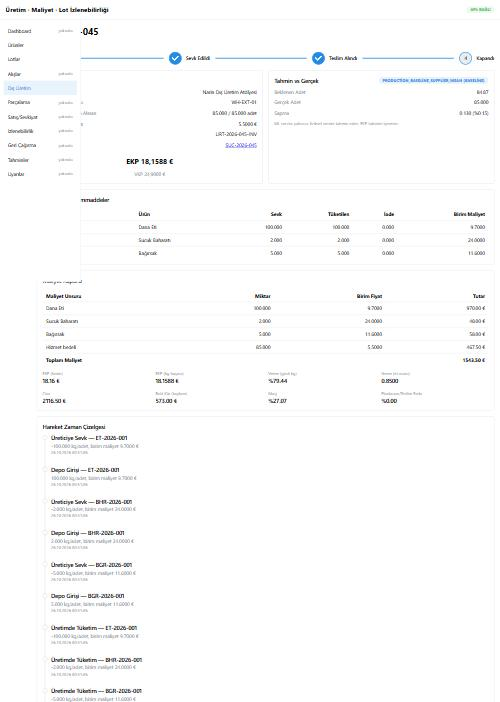
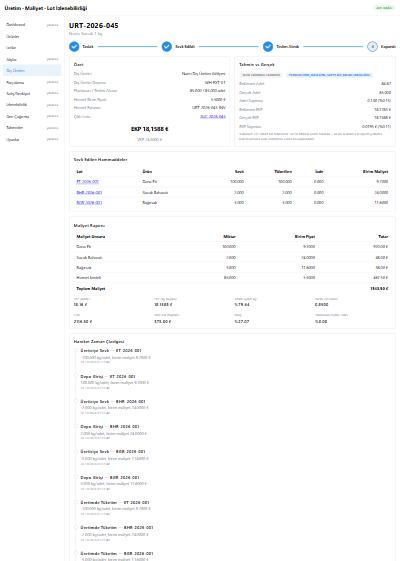
docs: hibrit EKP tahmini ve atomik numaralandirma (OpenAPI, varsayimlar, HANDOFF)

diff --git a/docs/HANDOFF.md b/docs/HANDOFF.md
@@ -14,11 +14,11 @@ Bu dosya, backend iskeletini devralan full-stack geliştirici içindir. Branch'l
 - **Repo (SQL)** — `backend/internal/repo`: items/suppliers/customers/warehouses CRUD, lots (liste/filtre/detay/bakiye), `CreatePurchaseLot` (tek transaction: belge + lot + belge satırı + `purchase_in` hareketi + change_log), stok hareketi listesi ve `ReverseMovement`, sync push/pull. item/customer/warehouse/lot'a yazan her fonksiyon `change_log` kaydını aynı transaction'da atar.
 - **HTTP** — `backend/internal/http`: chi router, JSON hata formatı, CORS, istek logu, panic kurtarma. Uç noktalar `docs/api-contract.md`'de; sözleşme `backend/api/openapi.yaml`.
 - **Seed** — `backend/cmd/seed` (idempotent): tedarikçiler, depolar, müşteriler, ürünler, alış belgeleri/lotları/`purchase_in` hareketleri (`KZ-2026-001` `has_mismatch=TRUE`), kuzu reçetesi `REC-KUZU-01` (oran ve fiyatlar `docs/golden/cutting_case.json`'dan okunur; dosya yoksa uyarıyla varsayılan değerler).
-- **Dış üretim (Görev 1)** — `backend/internal/repo/production.go`, durum/istek kuralları `backend/internal/domain/production.go`: `draft → materials_sent → received → closed`. `POST /production-orders` (+`URT-YYYY-NNN` otomatik numaralandırma), `send-materials` (kısmi/çok partili, bloke lot/yetersiz bakiye kontrolü), `receive` (iade desteği, `domain.CalculateProductionCost` ile EKP, çıktı lotu + `lot_link` + `production_in`, `INVOICED_QTY_MISMATCH`/`QTY_VARIANCE` uyarıları), `close` (fatura no zorunlu), `GET .../cost-report`, `GET .../movements`. `item.material_category` (migration `000002`) ve `production_input` lot-başına-tek-sevk kısıtı (migration `000003`) eklendi.
-- **ML entegrasyonu (en iyi gayret)** — `backend/internal/mlclient`: sipariş oluşturulunca `/predict/production` çağrılır (kaba `et_kg` tahminiyle, bkz. `docs/assumptions.md` madde 12), `receive`'de gerçekleşenle karşılaştırılıp `prediction` tablosu güncellenir. ML kapalıysa/zaman aşımına uğrarsa işlem bozulmaz, `prediction` boş kalır (`repo.Store.SetMLClient`, `ML_URL` env).
+- **Dış üretim (Görev 1)** — `backend/internal/repo/production.go`, durum/istek kuralları `backend/internal/domain/production.go`: `draft → materials_sent → received → closed`. `POST /production-orders` (+`URT-YYYY-NNN` **atomik** numaralandırma, migration `000005`), `send-materials` (kısmi/çok partili, bloke lot/yetersiz bakiye kontrolü), `receive` (iade desteği, `domain.CalculateProductionCost` ile EKP, çıktı lotu + `lot_link` + `production_in`, `INVOICED_QTY_MISMATCH`/`QTY_VARIANCE` uyarıları), `close` (fatura no zorunlu), `GET .../cost-report`, `GET .../movements`. `item.material_category` (migration `000002`) ve `production_input` lot-başına-tek-sevk kısıtı (migration `000003`) eklendi.
+- **Hibrit ML EKP tahmini (en iyi gayret)** — `backend/internal/mlclient` + `repo/production.go`: tahmin İKİ aşamada alınır, önceki satırın üzerine yazılmadan (`prediction.stage`, migration `000004`): `draft` (sipariş oluşunca, kaba `et_kg` tahminiyle, yalnız adet tahmini) ve `materials_sent` (hammadde sevki tamamlanınca, GERÇEK `et_kg` + KESİN `material_cost` ile `predicted_ekp_unit` hesaplanır — bkz. `docs/assumptions.md` madde 11–12). `receive`'de gerçekleşenle karşılaştırılıp aynı satıra yazılır (`actual_ekp_unit`, `ekp_error_abs/pct`). ML her iki aşamada da kapalıysa/zaman aşımına uğrarsa ilgili aşamanın tahmini atlanır, işlem bozulmaz (`repo.Store.SetMLClient`, `ML_URL` env).
 - **Web** — `web/`: Mantine sol menü iskeleti (11 sayfa), Ürünler/Lotlar/**Dış Üretim** canlı (Dış Üretim: liste + yeni sipariş formu + detay sayfası — durum adımları, sevk/kabul/kapatma formları, maliyet raporu kartı, tahmin-vs-gerçek kartı, hareket zaman çizelgesi, girdi lotları tablosu), diğerleri "yakında"; API durum rozeti. Ekran görüntüsü: [`docs/screenshots/urt-2026-045-cost-report.jpg`](screenshots/urt-2026-045-cost-report.jpg) (temiz `docker compose up --build` sonrası seed senaryosu).
 - **Altyapı**: `docker-compose.yml` (mysql→migrate→seed→api→web, ml; `api`/`seed` artık `ML_URL=http://ml:8000` ile), `Makefile`, `.env.example`, CI (`ml-test` ve `ml-docker-build` aynen duruyor; eklenenler: `backend-test`, `web-build`, `compose-smoke`).
-- **Testler** (`make test`): domain golden + dec/rounding birim testleri, 15+6 entegrasyon testi — önceki paket (migration up/down/up, trigger, decimal string round-trip, `POST /lots` atomikliği ve geri alma, `has_mismatch`, reverse kuralları, sync duplicate/pull/has_more/blocked, hata formatı, istemci UUIDv7) + yeni (`TestProductionGoldenScenarios`: golden `UR-001/002/003/006` gerçek HTTP uç noktalarıyla çalıştırılıp sonuç golden dosyasından okunarak karşılaştırılır; tam yaşam döngüsü + defter/`lot_link` doğrulaması; bloke lot/yetersiz bakiye/kısmi iade/ML kapalı senaryoları).
+- **Testler** (`make test`): domain golden + dec/rounding birim testleri, 15+11 entegrasyon testi — önceki paket (migration up/down/up, trigger, decimal string round-trip, `POST /lots` atomikliği ve geri alma, `has_mismatch`, reverse kuralları, sync duplicate/pull/has_more/blocked, hata formatı, istemci UUIDv7) + dış üretim paketi: `TestProductionGoldenScenarios` (golden `UR-001/002/003/006` gerçek HTTP uç noktalarıyla çalıştırılıp sonuç golden dosyasından okunarak karşılaştırılır), tam yaşam döngüsü + defter/`lot_link` doğrulaması, bloke lot/yetersiz bakiye/kısmi iade/ML kapalı senaryoları, `TestProductionHybridEkpPrediction` (mock ML sunucusu ile `predicted_ekp_unit` formülünü elle hesaplanan değerle birebir doğrular, sapma işaretini kontrol eder), `TestProductionOrderNumberingIsAtomicUnderConcurrency` (10 siparişi gerçekten aynı anda oluşturup hepsinin benzersiz numara aldığını doğrular).
 
 ## 2. Stub / TODO (bilerek yapılmadı)
 
@@ -27,10 +27,9 @@ Bu dosya, backend iskeletini devralan full-stack geliştirici içindir. Branch'l
 | `POST /sync/push` payload işleme | **Stub.** `op_id` kaydedilir, payload işlenmez; ilk gönderim `flagged` döner (uygulanmadı). `repo/sync.go` içindeki `TODO` yeri. Yazılınca stub kayıtlarını silin: `DELETE FROM processed_request WHERE JSON_EXTRACT(response_json,'$.stub') = TRUE;` |
 | Cihaz kaydı | `device` tablosu var, kayıt uç noktası yok. `pull`/`push` yalnızca kayıtlı cihazın `last_sync_at`'ini günceller. |
 | Parçalama, satış/sevkiyat/iade, izlenebilirlik, geri çağırma, uyarı | Tablolar var; **servis/uç nokta yok**. Hesap kuralları (`AllocateCutting`) hazır ve golden'la doğrulu, bağlanmayı bekliyor. |
-| ML entegrasyonu — yalnız dış üretim | `prediction` yalnızca `production` için yazılır (`anomaly_alert` hiç yazılmıyor; parçalama/satış ML'i de yok). ML yalnızca fiziksel verim tahmin eder, EKP tahmini **yoktur** (bkz. `docs/assumptions.md` madde 11). |
+| ML entegrasyonu — yalnız dış üretim | `prediction` yalnızca `production` için yazılır (`anomaly_alert` hiç yazılmıyor; parçalama/satış ML'i de yok). EKP tahmini = ML'in fiziksel verim tahmini + kesin malzeme maliyeti (**hibrit yaklaşım**, iki aşamalı: `draft` → `materials_sent`; bkz. `docs/assumptions.md` madde 11–12). |
 | Kimlik doğrulama / yetki | Yok. API açık, CORS `*`. |
 | Web | Ürünler/Lotlar salt okunur; Dış Üretim formlu ama diğer modüller yok. Web testi yok (yalnızca `tsc` + build). |
-| Sipariş/lot numarası üretimi atomik değil | `URT-YYYY-NNN`/`SUC-YYYY-NNN`: MAX+1, UNIQUE çakışmasında otomatik yeniden denemez (409). Demo/tek-yazarlı kullanım için yeterli (bkz. `docs/assumptions.md` madde 7). |
 | Çok depolu dış üretim desteklenmiyor | Bir siparişin tüm girdileri aynı depodan sevk edilmeli; çıktı da oraya girer (bkz. `docs/assumptions.md` madde 5). |
 | `suppliers` sync | Senkron akışına dahil değil (spec: item/customer/warehouse/lot). |
 | Android | `android/` boş (`.gitkeep` + README). |
@@ -54,6 +53,8 @@ Bu dosya, backend iskeletini devralan full-stack geliştirici içindir. Branch'l
 15. **Seed artık servisler üzerinden de yazıyor.** `cmd/seed/externalProduction`: `URT-2026-045` senaryosu `repo.Store`'un gerçek `CreateProductionOrder`/`SendMaterials`/`ReceiveProduction`/`CloseProductionOrder` fonksiyonlarıyla, ham SQL YAZMADAN oluşturulur (yalnızca idempotency kontrolü ve reçete satırları SQL'dir — ikincisi bir "ana veri" tablosu, iş akışı değil). Yeni servis eklerken aynı deseni izleyin.
 16. **`item.material_category` ve `production_input` UNIQUE kısıtı ayrı migration'lardır** (`000002`, `000003`) — `000001` zaten `main`'e merge edildiği için üzerine yazılmadı, ekleme yapıldı (bkz. `docs/assumptions.md` madde 4 ve 6).
 17. **Hizmet faturası `receive`'de opsiyonel, `close`'da zorunlu.** Gerçek iş akışında fatura genelde mamulden sonra gelir; `close` gövdesi `service_invoice_no` ile tamamlanmasına izin verir (bkz. `docs/assumptions.md` madde 9). Bu, orijinal görev tanımının "receive: service_invoice_no" ile "close: fatura no yoksa 422" arasındaki örtük çelişkiyi çözen bilinçli bir yorumdur.
+18. **EKP tahmini hibrit ve iki aşamalıdır, uydurma değildir.** ML'in kendisi maliyet bilmediği için `predicted_ekp_unit`'i ML'in fiziksel tahminiyle sunucudaki KESİN malzeme maliyetini birleştirerek biz hesaplıyoruz; bu yüzden `draft` aşamasında (malzeme maliyeti bilinmezken) bu alan bilinçli olarak `null`'dur, `materials_sent`'te (malzeme maliyeti kesinleşince) doludur. Her aşama ayrı bir `prediction` satırıdır (`stage` kolonu, migration `000004`) — önceki satır ASLA üzerine yazılmaz, denetim izi korunur (bkz. `docs/assumptions.md` madde 11–12).
+19. **`last_value` MySQL 8.0'da ayrılmış (reserved) bir sözcüktür** (`LAST_VALUE()` pencere fonksiyonu) — backtick'le bile kolon adı olarak kullanılamıyor, `CREATE TABLE` sözdizim hatasıyla başarısız olur. `number_sequence` tablosunda kolon adı bu yüzden `seq_value`'dur (migration `000005`). Yeni bir migration yazarken MySQL'in ayrılmış sözcük listesini kontrol edin; hata mesajı yanıltıcı olabilir (gerçek sorunlu kolon, "near" metninde gösterilenin BİR ÖNCESİNDEKİ kolon olabilir — bkz. bu migration'ın commit geçmişi).
 
 ## 4. Nasıl çalıştırılır
 

diff --git a/docs/assumptions.md b/docs/assumptions.md
@@ -101,10 +101,20 @@ Durum makinesi: `draft → materials_sent → received → closed`. Uygulama: `b
 4. **Hammadde kategorisi artık `item.material_category` alanıdır** (migration `000002`, ENUM `meat|spice|casing|other`, yalnızca `item_type=raw` için anlamlı). `CalculateProductionCost` her satır için bu kategoriyi zorunlu kılar; kategorisi olmayan bir hammadde sevk edilip teslim alınmaya çalışılırsa `422` döner. Seed'de `ET-DANA=meat`, `BAHARAT-SUCUK=spice`, `BAGIRSAK=casing` olarak ayarlıdır.
 5. **Tek depo varsayımı.** Bir siparişin tüm girdileri **aynı** ana depodan sevk edilmiş olmalı (dış üretici deposuna `send_to_producer`/`transfer_in` çifti bu depodan gider); çıktı mamulü de aynı depoya girer (`production_in`). Girdi lotları farklı depolardan sevk edilmişse `receive` `422` döner. Bir lot birden fazla depoya bölünmüşse (`v_lot_balance` birden fazla satır) ve sevk miktarını karşılayan TEK bir depo yoksa `send-materials` `409` döner (çoklu depodan birleştirilmiş sevkiyat desteklenmez).
 6. **`production_input (production_order_id, lot_id)` UNIQUE'dir** (migration `000003`): bir lot aynı siparişe en fazla bir sevk satırıyla gönderilebilir. Bu, `receive` sırasında "bu lot hangi depodan sevk edildi" sorusunun defterden (bkz. 7) tek ve belirsizliksiz cevaplanmasını sağlar. `draft`/`materials_sent` durumunda birden fazla `send-materials` çağrısına (kısmi/çok partili sevkiyat) izin verilir; aynı lot ikinci kez gönderilmeye çalışılırsa `409`.
-7. **Sipariş numarası üretimi (`URT-YYYY-NNN`) ve çıktı lot numarası (`SUC-YYYY-NNN`) atomik DEĞİLDİR.** Mevcut en büyük `NNN` okunup +1 yapılır; es zamanlı iki istek teorik olarak aynı numarayı üretip ikincisi `409` (UNIQUE ihlali) alabilir — yeniden otomatik denenmez. Demo kapsamında (tek yazarlı kullanım) kabul edilebilir bir sınırlamadır; üretimde bir sequence tablosu veya `INSERT ... ON DUPLICATE` döngüsü eklenebilir.
+7. **Sipariş numarası (`URT-YYYY-NNN`) ve çıktı lot numarası (`SUC-YYYY-NNN`) üretimi ATOMİKTİR.** `number_sequence` tablosu (migration `000005`, PK `(prefix, year)`) + `INSERT ... ON DUPLICATE KEY UPDATE seq_value = seq_value + 1` deseni (`backend/internal/repo/production.go`, `nextSequenceNo`): bu tek satır hem satırı oluşturur/kilitler hem de artırır; es zamanlı iki çağrı aynı satırda **sıraya girer** (ikincisi birincinin transaction'ı commit/rollback olana kadar bekler), bu yüzden hiçbir zaman aynı numara üretilmez — `409` ile reddetme veya yeniden deneme gerekmez. `TestProductionOrderNumberingIsAtomicUnderConcurrency` 10 siparişi **gerçekten aynı anda** (goroutine'lerle) oluşturup hepsinin benzersiz numara aldığını doğrular. (Kolon adı `last_value` değil `seq_value`: `LAST_VALUE()` MySQL 8.0'da pencere fonksiyonu olduğu için ayrılmış sözcüktür, backtick'le bile kolon adı olarak kullanılamıyor — bkz. migration yorumu.)
 8. **"Toplam stok değeri değişmiyor" DEĞİL, hizmet bedeli kadar ARTAR.** Hammadde değeri (`material_cost`) tüketilen miktarla birebir mamule aktarılır, ama mamulün birim maliyeti (`ekp_unit`) hizmet bedelini de içerir. Yani sevk+teslim sonrası toplam envanter değeri, önceki hammadde değerinden tam olarak `service_cost` kadar YÜKSEKTİR (gerçek bir nakit maliyet eklenmiştir, stoktan gelmez). `TestProductionOrderFullLifecycle` bu özdeşliği (`material_cost` tüketilen hammaddenin tam değeri, `total_cost = material_cost + service_cost`) doğrular; "değişmiyor" ifadesi yalnızca hammadde değerinin kaybolmadan aktarıldığı anlamında doğrudur.
 9. **Hizmet faturası `close`'da da verilebilir.** `receive`'de `service_invoice_no` opsiyoneldir (fatura genelde mamulden sonra gelir); verilmemişse `POST .../close` gövdesinde `service_invoice_no` ile tamamlanabilir. İkisi de boşsa kapatma `422` ile reddedilir.
 10. **Durum geçmişi ayrı bir tablo yerine mevcut zaman damgalarından türetilir** (`GET /production-orders/{id}` → `status_history`): `draft` = siparişin `created_at`'i, `materials_sent` = bu siparise ait ilk `send_to_producer` hareketinin zamanı, `received` = çıktı lotunun `created_at`'i, `closed` = `closed_at`. Ayrı bir durum-geçişi log tablosu eklenmedi (şema sadeliği); gerçek bir denetim izi gerekiyorsa eklenebilir (TODO).
-11. **ML entegrasyonu bir maliyet modeli DEĞİLDİR, yalnızca fiziksel verim tahmini yapar.** `ml/` servisinin `/predict/production` uç noktası `predicted_yield_ratio`/`predicted_output_kg`/`predicted_delivered_qty` döner; **EKP tahmini yoktur** (maliyet sunucu tarafında gerçek hammadde/hizmet fiyatlarıyla hesaplanır, ML'in bilgisi dışındadır). Bu yüzden API'de `prediction.predicted_ekp_unit` gibi bir alan kasıtlı olarak **yoktur** — böyle bir alan eklemek olmayan bir "tahmin" uydurmak anlamına gelirdi.
-12. **Siparış oluşturulurken ML'e gönderilen `et_kg` tahminidir, gerçek değer değildir.** Oluşturma anında hangi hammaddelerin sevk edileceği henüz bilinmediği için (`send-materials` sonraki adımdır), `et_kg_estimate = planned_qty × unit_weight_kg / 0,85` (varsayılan verim, golden `UR-001..004` senaryolarındaki `yield_meat_ratio=0,8500` ile aynı) kabaca hesaplanıp ML'e gönderilir. Gerçek sonuç (`received_qty`) `receive` adımında bu ilk tahminle karşılaştırılır (`delivered_qty_error_abs/pct`) — tahminin kendisi YENİDEN hesaplanmaz, yalnızca gerçekleşenle kıyaslanır.
-13. **ML "en iyi gayret"tir.** `ML_URL` erişilemezse (servis kapalı, zaman aşımı) sipariş oluşturma **başarısız olmaz**; uyarı loglanır ve `prediction` alanı `null` kalır (`backend/internal/repo/production.go`, `predictOnCreate`). `TestProductionMLUnreachableStillCreatesOrder` bunu gerçek bir ağ hatasıyla (sahte değil, dinlemeyen bir porta bağlanarak) doğrular.
+11. **Hibrit EKP tahmini.** Yarışma dokümanının zorunlu YZ maddesi A "beklenen mamul miktarını VE birim maliyetini (EKP) tahmin eden bir model" ister. `ml/` servisinin kendisi bir maliyet modeli değildir — yalnızca fiziksel verimi (`predicted_yield_ratio`/`predicted_output_kg`/`predicted_delivered_qty`) tahmin eder, hammadde/hizmet fiyatlarını bilmez. EKP tahmini bu yüzden **hibrit** üretilir: ML'in fiziksel adet tahmini + sunucudaki **kesin** malzeme maliyeti birleştirilir:
+
+   ```
+   predicted_ekp_unit = (material_cost + round2(predicted_qty × service_unit_price)) / predicted_qty
+   ```
+
+   (4 ondalık, `DivRound`; hizmet bedelinde faturalanan adetin tahmini adetle aynı olduğu varsayılır — tıpkı gerçek EKP hesabında `invoiced_qty` verilmezse `delivered_qty`'ye eşit sayılması gibi.) `material_cost`, o ana kadar sevk edilmiş hammaddelerin KESİN tutarıdır (`round2(qty_sent × unit_cost_at_send)` toplamı); tahmini değildir.
+12. **Tahmin iki AŞAMADA alınır, önceki satırın ÜZERİNE YAZILMAZ.** `prediction.stage` ∈ `draft | materials_sent`; her asama ayrı bir satırdır (`backend/internal/repo/production.go`, `insertPrediction`):
+    - **`draft`** (sipariş oluşturulunca): hammadde kompozisyonu henüz bilinmediği için `et_kg_estimate = planned_qty × unit_weight_kg / 0,85` (varsayılan verim, golden `UR-001..004`'teki `yield_meat_ratio=0,8500` ile aynı) kabaca hesaplanıp ML'e gönderilir. Malzeme maliyeti henüz bilinmediği için **`predicted_ekp_unit` bu aşamada `null`'dur**.
+    - **`materials_sent`** (hammadde sevki tamamlanınca, her `send-materials` çağrısından sonra güncellenir): artık GERÇEK sevk edilen et miktarı (`et_kg`, tahmini değil) ve KESİN `material_cost` bilinir; ML bu gerçek `et_kg` ile tekrar sorulur ve yukarıdaki formülle **`predicted_ekp_unit` hesaplanır**. `GET`/`cost-report` her zaman EN GÜNCEL satırı gösterir (`ORDER BY created_at DESC LIMIT 1`), yani `materials_sent` tahmini varsa `draft`'ınkinin yerini (görünürlükte, veritabanında değil) alır.
+
+    `receive` sırasında (`recordPredictionActual`) gerçekleşen `received_qty` ve hesaplanan `ekp_unit`, en güncel tahminle karşılaştırılıp AYNI satıra `actual_json`/`error_json` olarak yazılır: `actual_ekp_unit`, `ekp_error_abs` (işaretli: `actual − predicted`), `ekp_error_pct` (`round2(|fark| / predicted × 100)`). En güncel tahmin `draft` ise (yani `materials_sent`'te ML kapalıydı) `predicted_ekp_unit` yoktur; bu durumda yalnızca adet sapması yazılır, EKP sapma alanları boş kalır — var olmayan bir tahminle sahte bir karşılaştırma uydurulmaz. `TestProductionHybridEkpPrediction` (mock ML sunucusu, sabit `predicted_qty=84,87`) formülün API'de **elle hesaplanan değerle birebir aynı** sonucu verdiğini ve sapmanın doğru işaretle yazıldığını doğrular.
+13. **ML "en iyi gayret"tir, her iki aşamada da.** `ML_URL` erişilemezse (servis kapalı, zaman aşımı) ne sipariş oluşturma ne de hammadde sevki **başarısız olur**; uyarı loglanır ve o aşamanın tahmini atlanır (`predictOnCreate`, `predictOnMaterialsSent`). `TestProductionMLUnreachableStillCreatesOrder` bunu gerçek bir ağ hatasıyla (sahte değil, dinlemeyen bir porta bağlanarak) doğrular.

diff --git a/docs/api-contract.md b/docs/api-contract.md
@@ -338,7 +338,7 @@ Durum makinesi: `draft → materials_sent → received → closed`. Geçersiz ge
 }
 ```
 
-Opsiyonel: `id`, `order_no` (boşsa `URT-<yıl>-NNN` üretilir). Oluşturulunca ML servisine (`ML_URL`) en iyi gayretle bir tahmin istenir (`prediction`, yalnız detay yanıtında); ML kapalıysa sipariş yine oluşturulur, `prediction` boş kalır.
+Opsiyonel: `id`, `order_no` (boşsa `URT-<yıl>-NNN` **atomik** üretilir — eş zamanlı isteklerde de çakışmaz). Oluşturulunca ML servisine (`ML_URL`) en iyi gayretle bir tahmin istenir (`prediction`, `stage: "draft"`; malzeme kompozisyonu henüz bilinmediği için yalnızca adet tahmini, `predicted_ekp_unit: null`); ML kapalıysa sipariş yine oluşturulur, `prediction` boş kalır.
 
 ### `POST /production-orders/{id}/send-materials` — hammadde sevk et
 
@@ -352,7 +352,7 @@ Opsiyonel: `id`, `order_no` (boşsa `URT-<yıl>-NNN` üretilir). Oluşturulunca 
 ]}
 ```
 
-Her satır için `send_to_producer` (−) + `transfer_in` (+) hareket çifti ve bir `production_input` satırı oluşur; durum `materials_sent` olur. Hatalar: lot aktif değilse (`blocked`/`recalled`/`consumed`) `422`; lotun tek bir depoda yeterli bakiyesi yoksa `409`; aynı lot bu siparişe ikinci kez gönderilirse `409` (bir lot, bir siparişe en fazla bir kez sevk edilir).
+Her satır için `send_to_producer` (−) + `transfer_in` (+) hareket çifti ve bir `production_input` satırı oluşur; durum `materials_sent` olur. Başarılı her çağrıdan sonra (en iyi gayret) ML'e GERÇEK sevk edilen et miktarıyla tekrar sorulup yeni bir tahmin satırı eklenir — artık kesin malzeme maliyeti bilindiği için bu satırda `predicted_ekp_unit` doludur (bkz. `GET .../cost-report` örneği). Hatalar: lot aktif değilse (`blocked`/`recalled`/`consumed`) `422`; lotun tek bir depoda yeterli bakiyesi yoksa `409`; aynı lot bu siparişe ikinci kez gönderilirse `409` (bir lot, bir siparişe en fazla bir kez sevk edilir).
 
 ### `POST /production-orders/{id}/receive` — mamulü teslim al
 
@@ -407,14 +407,16 @@ Yalnız `received` durumunda kabul edilir. Gövde opsiyonel: `receive`'de `servi
   "revenue": "2116.50", "gross_profit_total": "573.00", "margin_pct": "27.07",
   "qty_variance_pct": "0.00", "warnings": [],
   "prediction": {
-    "model_name": "production_baseline_supplier_mean", "baseline": true,
-    "predicted_delivered_qty": "84.87", "actual_delivered_qty": "85.000",
-    "delivered_qty_error_abs": "0.130", "delivered_qty_error_pct": "0.15"
+    "model_name": "production_baseline_supplier_mean", "baseline": true, "stage": "materials_sent",
+    "predicted_delivered_qty": "84.87", "predicted_ekp_unit": "18.1783",
+    "actual_delivered_qty": "85.000", "actual_ekp_unit": "18.1588",
+    "delivered_qty_error_abs": "0.130", "delivered_qty_error_pct": "0.15",
+    "ekp_error_abs": "-0.0195", "ekp_error_pct": "0.11"
   }
 }
 ```
 
-`ekp_display` yalnızca gösterim içindir; değerleme `ekp_unit` veya `total_cost` üzerinden yapılır (bkz. `docs/assumptions.md`, yuvarlama notu). `prediction.predicted_ekp_unit` **yoktur**: ML yalnızca fiziksel verimi (adet/kg) tahmin eder, maliyet modeli değildir.
+`ekp_display` yalnızca gösterim içindir; değerleme `ekp_unit` veya `total_cost` üzerinden yapılır (bkz. `docs/assumptions.md`, yuvarlama notu). `prediction.predicted_ekp_unit` **hibrit bir tahmindir**: ML'in kendisi maliyet bilmez (yalnızca fiziksel verimi/adedi tahmin eder), bu alan sunucuda `(material_cost + round2(predicted_qty × service_unit_price)) / predicted_qty` formülüyle hesaplanır. İki aşamalı: `stage: "draft"` (sipariş oluşunca, malzeme maliyeti henüz bilinmediği için `predicted_ekp_unit: null`) ve `stage: "materials_sent"` (hammadde sevki tamamlanınca, kesin malzeme maliyetiyle hesaplanır — yukarıdaki örnek bu aşamadandır). Ayrıntı: `docs/assumptions.md` ("Hibrit EKP tahmini").
 
 ### `GET /production-orders/{id}/movements`
 
